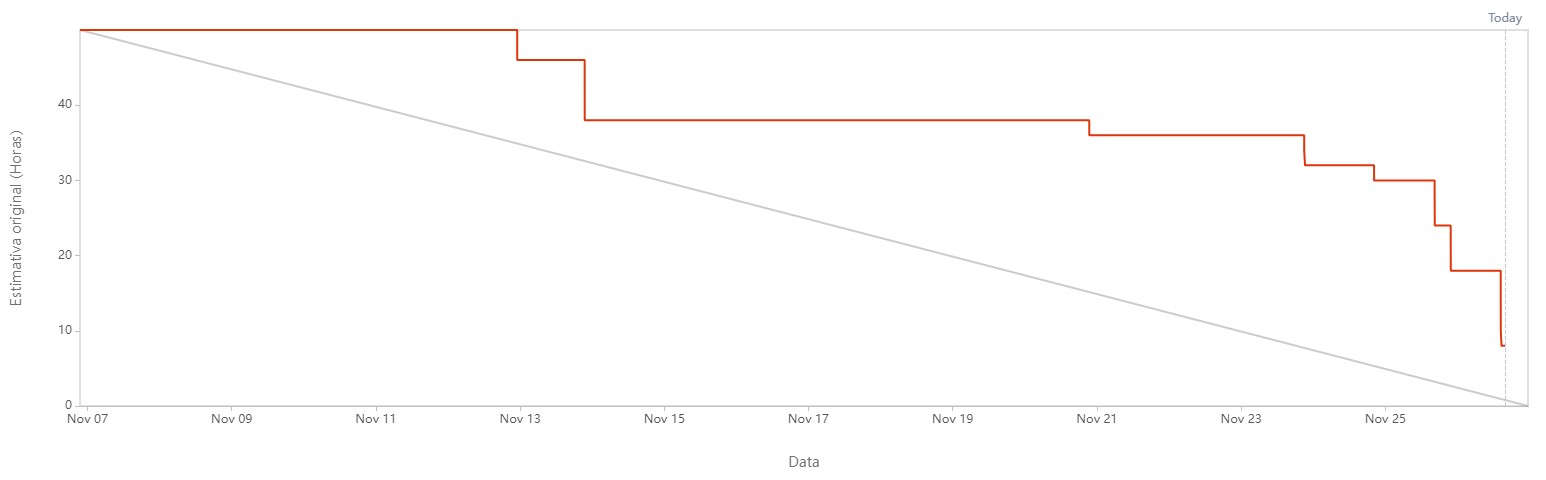
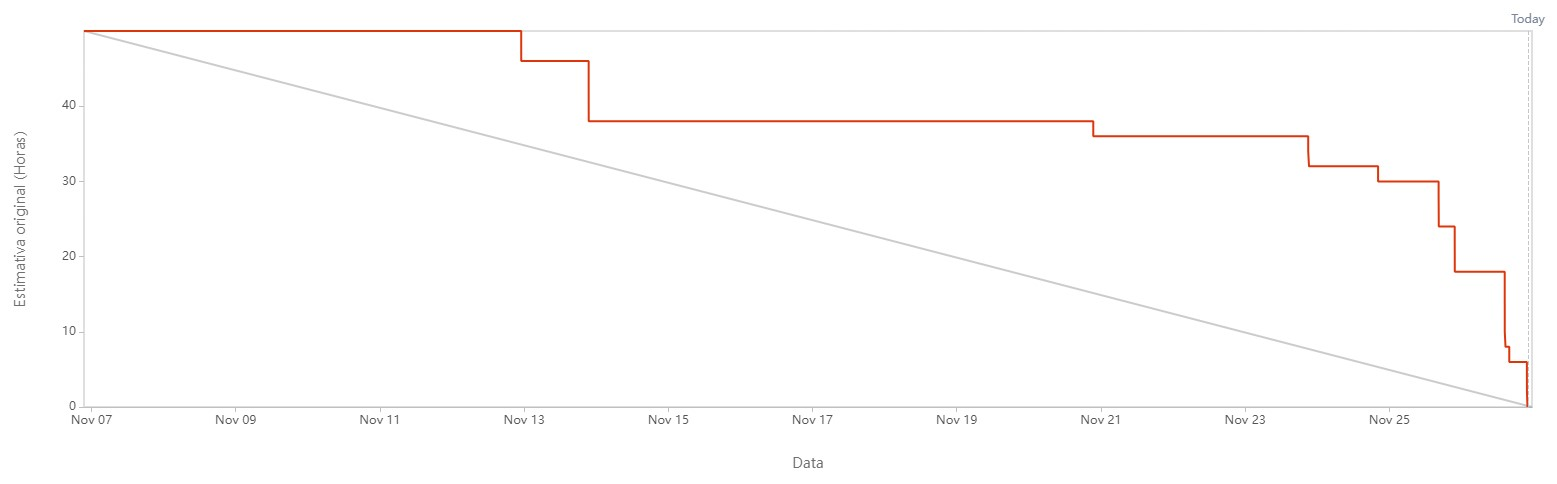
Sprint 4

diff --git a/README.md b/README.md
@@ -60,7 +60,7 @@ Aiming to solve the project, the system will be delivered in four sprints:
 |Sprint 1                 | Visualization of the establishment's Sales data | System developed with functionalities for inserting data related to sales via .csv files and viewing them through various graphs and dynamic filters. |
 |Sprint 2                 | Visualization and management of the establishment's Suppliers data, visualization of reports for future decision making. | System developed with functionalities for inserting data related to suppliers and viewing them through various graphs and dynamic filters. The payment part and reports for data comparisons were also developed. |
 |Sprint 3                 | Visualization and management of the establishment's Inputs and Stock data, visualization of comparators for predictability. | System developed with functionalities for inserting data related to inputs and stock, as well as viewing them through various graphs and dynamic filters. It was also implemented the input predictability comparator. |
-|Sprint 4                 | Visualization and management of the establishment's Employees data, comparison of customers x employees x stock, access level. | System will be developed with functionalities for inserting data related to employees and also visualizing them through various graphs and dynamic filters. A comparator of customers x employees x stock, and system access levels will also be implemented. |
+|Sprint 4                 | Complete movement of data related to inputs and stock, receipt of notifications regarding low quantity of products in stock. | System developed with complete functionalities regarding data related to inputs and stock, as well as receiving notifications regarding low quantity of a product in stock. |
 
 <p align="right">(<a href="#top">Scroll to top</a>)</p>
 
